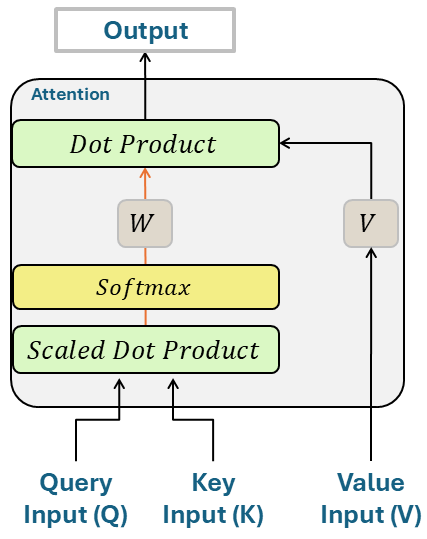
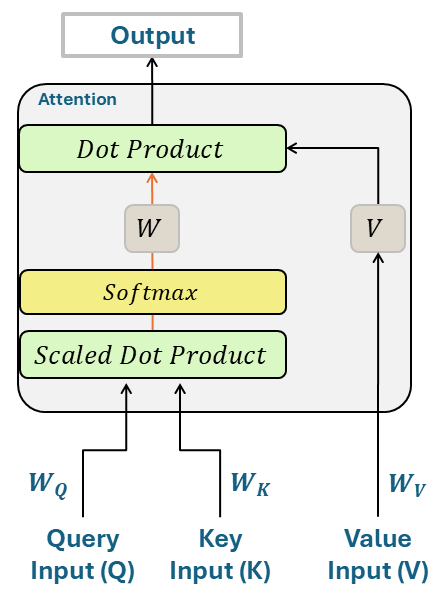
created animated slide for describing the a2e architecture

Changed region(s): [[0.0, 0.0, 1.0, 0.9796], [0.9133, 0.7124, 0.9438, 0.7421]]

diff --git a/presentations/202601_Master_Kolloquium/index.html b/presentations/202601_Master_Kolloquium/index.html
@@ -7,6 +7,8 @@
 
 		<title>Master Kolloquium</title>
 
+		<link rel="stylesheet" href="custom-animation.css">
+
 		<link rel="stylesheet" href="../../dist/reset.css">
 		<link rel="stylesheet" href="../../dist/reveal.css">
 		<link rel="stylesheet" href="../../dist/theme/custom.css">
@@ -233,17 +235,26 @@
 							<div>
 								<p style="font-weight: bold;">A2E</p>
 								<div>
-									<img width="500" src="images/A2E_training_topk.png" alt="A2E">
+									<img width="500" src="images/A2E_training_topk.png" alt="A2E" data-id="A2E-Architecture">
 								</div>
 							</div>
 						</div>
 					</section>
-					
+
 					<section data-auto-animate>
 						<div class="header">
 							<h2>2. Attentive Analog Ensemble (A2E)</h2>
 							<hr data-id="h-line">
-							<h3>A2E Architektur</h3>
+						</div>
+						<div class="r-hstack">
+							<div class="r-stack" style="overflow: hidden; height: 600px; width: 100%;">
+								<img width="500" src="images/A2E_training_topk.png" alt="A2E-Architecture" data-id="A2E-Architecture" id="A2E-Architecture">
+								<img width="500" src="images/A2E_training_topk.png" alt="A2E-Architecture" id="A2E-Architecture-Zoom">
+
+								<span class="fragment" data-fragment-index="0"></span>
+								<span class="fragment" data-fragment-index="1"></span>
+								<span class="fragment" data-fragment-index="2"></span>
+							</div>
 						</div>
 					</section>
 				</section>

diff --git a/presentations/202601_Master_Kolloquium/custom-animation.css b/presentations/202601_Master_Kolloquium/custom-animation.css
@@ -1,0 +1,24 @@
+#A2E-Architecture-Zoom {
+    visibility: hidden;
+    transition: all 0.75s ease-in-out;
+    transform: scale(1) translate(0, 0);
+}
+
+section:has(.current-fragment) #A2E-Architecture {
+    visibility: hidden;
+}
+
+section:has(.current-fragment[data-fragment-index="0"]) #A2E-Architecture-Zoom {
+    visibility: visible;
+    transform: scale(1.6) translate(0%, 17.5%);
+}
+
+section:has(.current-fragment[data-fragment-index="1"]) #A2E-Architecture-Zoom {
+    visibility: visible;
+    transform: scale(2) translate(0%, -30%);
+}
+
+section:has(.current-fragment[data-fragment-index="2"]) #A2E-Architecture-Zoom {
+    visibility: visible;
+    transform: scale(2.5) translate(0%, 0%);
+}
